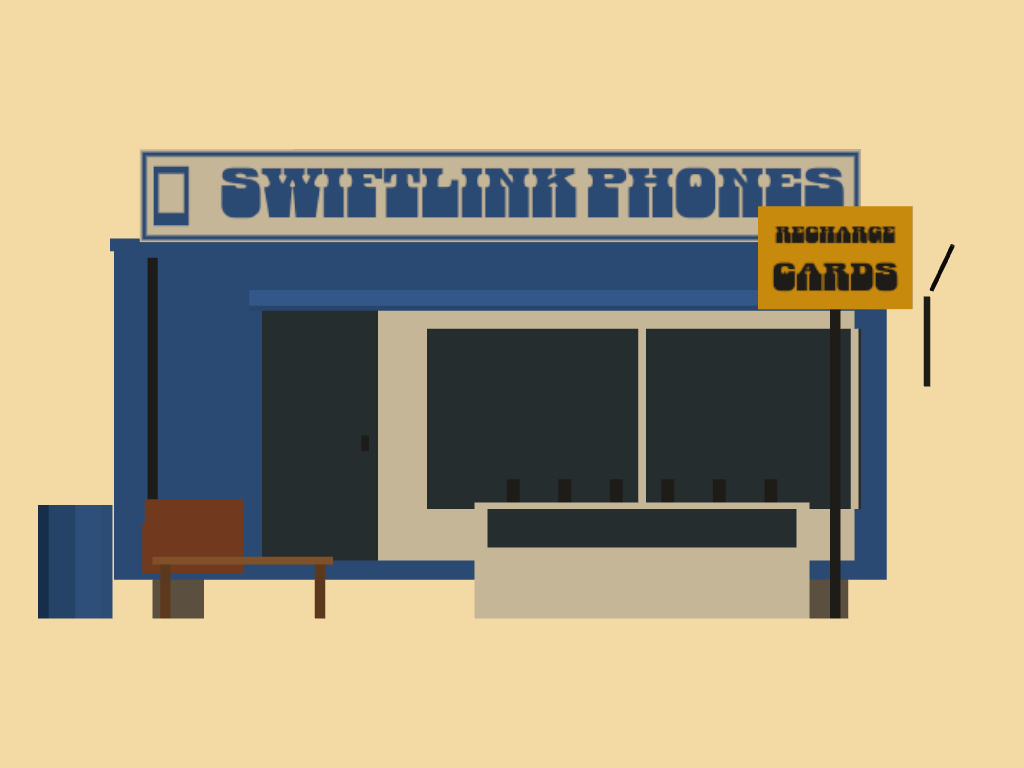
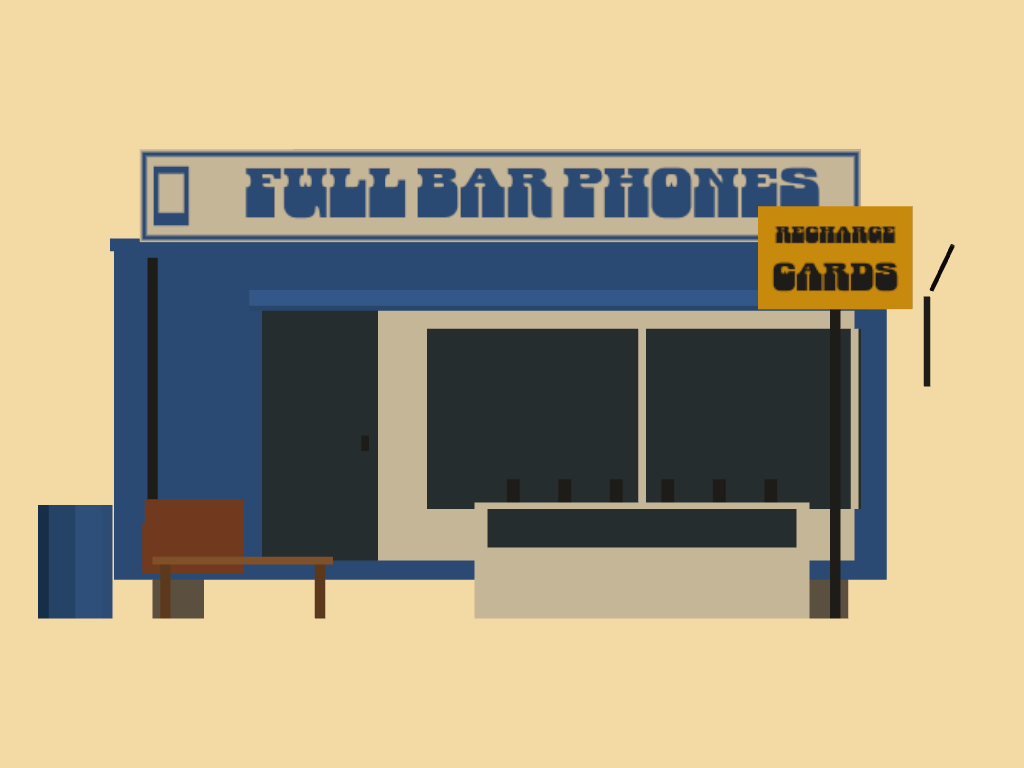
Signs lettered from content's text table; the four Ojuelegba models reshot with their boards' words

Changed region(s): [[0.2188, 0.2188, 0.8438, 0.2812]]

diff --git a/tools/assets/shoot.test.ts b/tools/assets/shoot.test.ts
@@ -1,10 +1,14 @@
 import { readdirSync, readFileSync } from "node:fs";
 import { join } from "node:path";
 
+import { text } from "@japacity/content";
 import { describe, expect, test } from "vitest";
 
-import { CATALOG, ROOT, SOURCE } from "./catalog";
+import { CATALOG, PUBLIC, ROOT, SOURCE } from "./catalog";
+import { listFiles, sourceFiles } from "./check-assets";
+import { readGlb } from "./glb";
 import { PHONE_SHOT } from "./shoot";
+import { signText } from "./stage-browser";
 
 const config = JSON.parse(readFileSync(join(SOURCE, "review.config.json"), "utf8")) as { phoneShot: Record<string, number>; criteria: { key: string }[] };
 const stage = readFileSync(join(SOURCE, "stage", "stage.ts"), "utf8");
@@ -46,5 +50,19 @@ describe("the fixed views", () => {
       expect(CATALOG.find((c) => c.name === e.name)?.file).toBe(e.file);
     }
     expect([examples.bar.building, examples.bar.shopfront, examples.bar.landmark, examples.bar.outOf]).toEqual([21, 21, 20, 35]);
+  });
+
+  test("[R-ASSET-012] given every sign anchor in a shipped model, when the stage letters it, then its words are the content's text table's and signs.json keeps none", async () => {
+    const words = signText();
+    const keys: string[] = [];
+    for (const file of sourceFiles(listFiles(PUBLIC)).filter((path) => path.endsWith(".glb"))) {
+      const doc = await readGlb(readFileSync(join(PUBLIC, file)));
+      const root = doc.getRoot().getDefaultScene()?.listChildren()[0];
+      for (const anchor of (root?.getExtras() as { signs?: { key: string }[] } | undefined)?.signs ?? []) keys.push(anchor.key);
+    }
+    expect(keys.length).toBeGreaterThanOrEqual(12);
+    for (const key of keys) expect(words[key], key).toBe(text[key]);
+    expect(Object.values(words).every((said) => said.trim() !== "")).toBe(true);
+    expect(Object.keys(JSON.parse(readFileSync(join(SOURCE, "signs.json"), "utf8")) as object)).toEqual(["note"]);
   });
 });

diff --git a/tools/assets/stage-browser.ts b/tools/assets/stage-browser.ts
@@ -1,13 +1,14 @@
 // Opens the stage in Playwright's own Chromium on the software renderer (decision 0005 section 3,
 // point 4): no executablePath, so Playwright finds the build it installed, and SwiftShader, so a
 // model gives the same pixels on every run.
-import { readFileSync } from "node:fs";
-import { join } from "node:path";
-
+import { text } from "@japacity/content";
 import { type Browser, type BrowserContext, chromium, type Page } from "@playwright/test";
 
-import { ROOT, SOURCE } from "./catalog";
+import { ROOT } from "./catalog";
 import { type Server, startServer } from "./serve";
+
+/** A place's sign key: `place.<slug>.sign.<n>`. */
+export const SIGN_KEY = /^place\.[a-z0-9-]+\.sign\.[a-z0-9-]+$/;
 
 export const CHROMIUM_ARGS = ["--use-gl=angle", "--use-angle=swiftshader", "--enable-unsafe-swiftshader", "--ignore-gpu-blocklist"];
 
@@ -18,8 +19,9 @@ export interface Stage {
   close: () => Promise<void>;
 }
 
+/** Every sign's words from the content's text table (city.md R-CITY-024), so a render shows what the game shows. */
 export function signText(): Record<string, string> {
-  return (JSON.parse(readFileSync(join(SOURCE, "signs.json"), "utf8")) as { text: Record<string, string> }).text;
+  return Object.fromEntries(Object.entries(text).filter(([key]) => SIGN_KEY.test(key)));
 }
 
 export async function openStage(): Promise<Stage> {

diff --git a/assets-src/stage/stage.ts b/assets-src/stage/stage.ts
@@ -33,7 +33,7 @@ export type MaskView = "front" | "side" | "plan";
 
 export interface LoadOptions {
   url: string;
-  /** Sign text by key: the drafts in assets-src/signs.json until the place's text table has them. */
+  /** Sign text by key, from the content's text table. */
   text: Record<string, string>;
   /** Bone rotations (Euler XYZ) for a person, by bone name, and the hips' height if the pose moves it. */
   pose?: { rotations: Record<string, [number, number, number]>; hipsY?: number };
